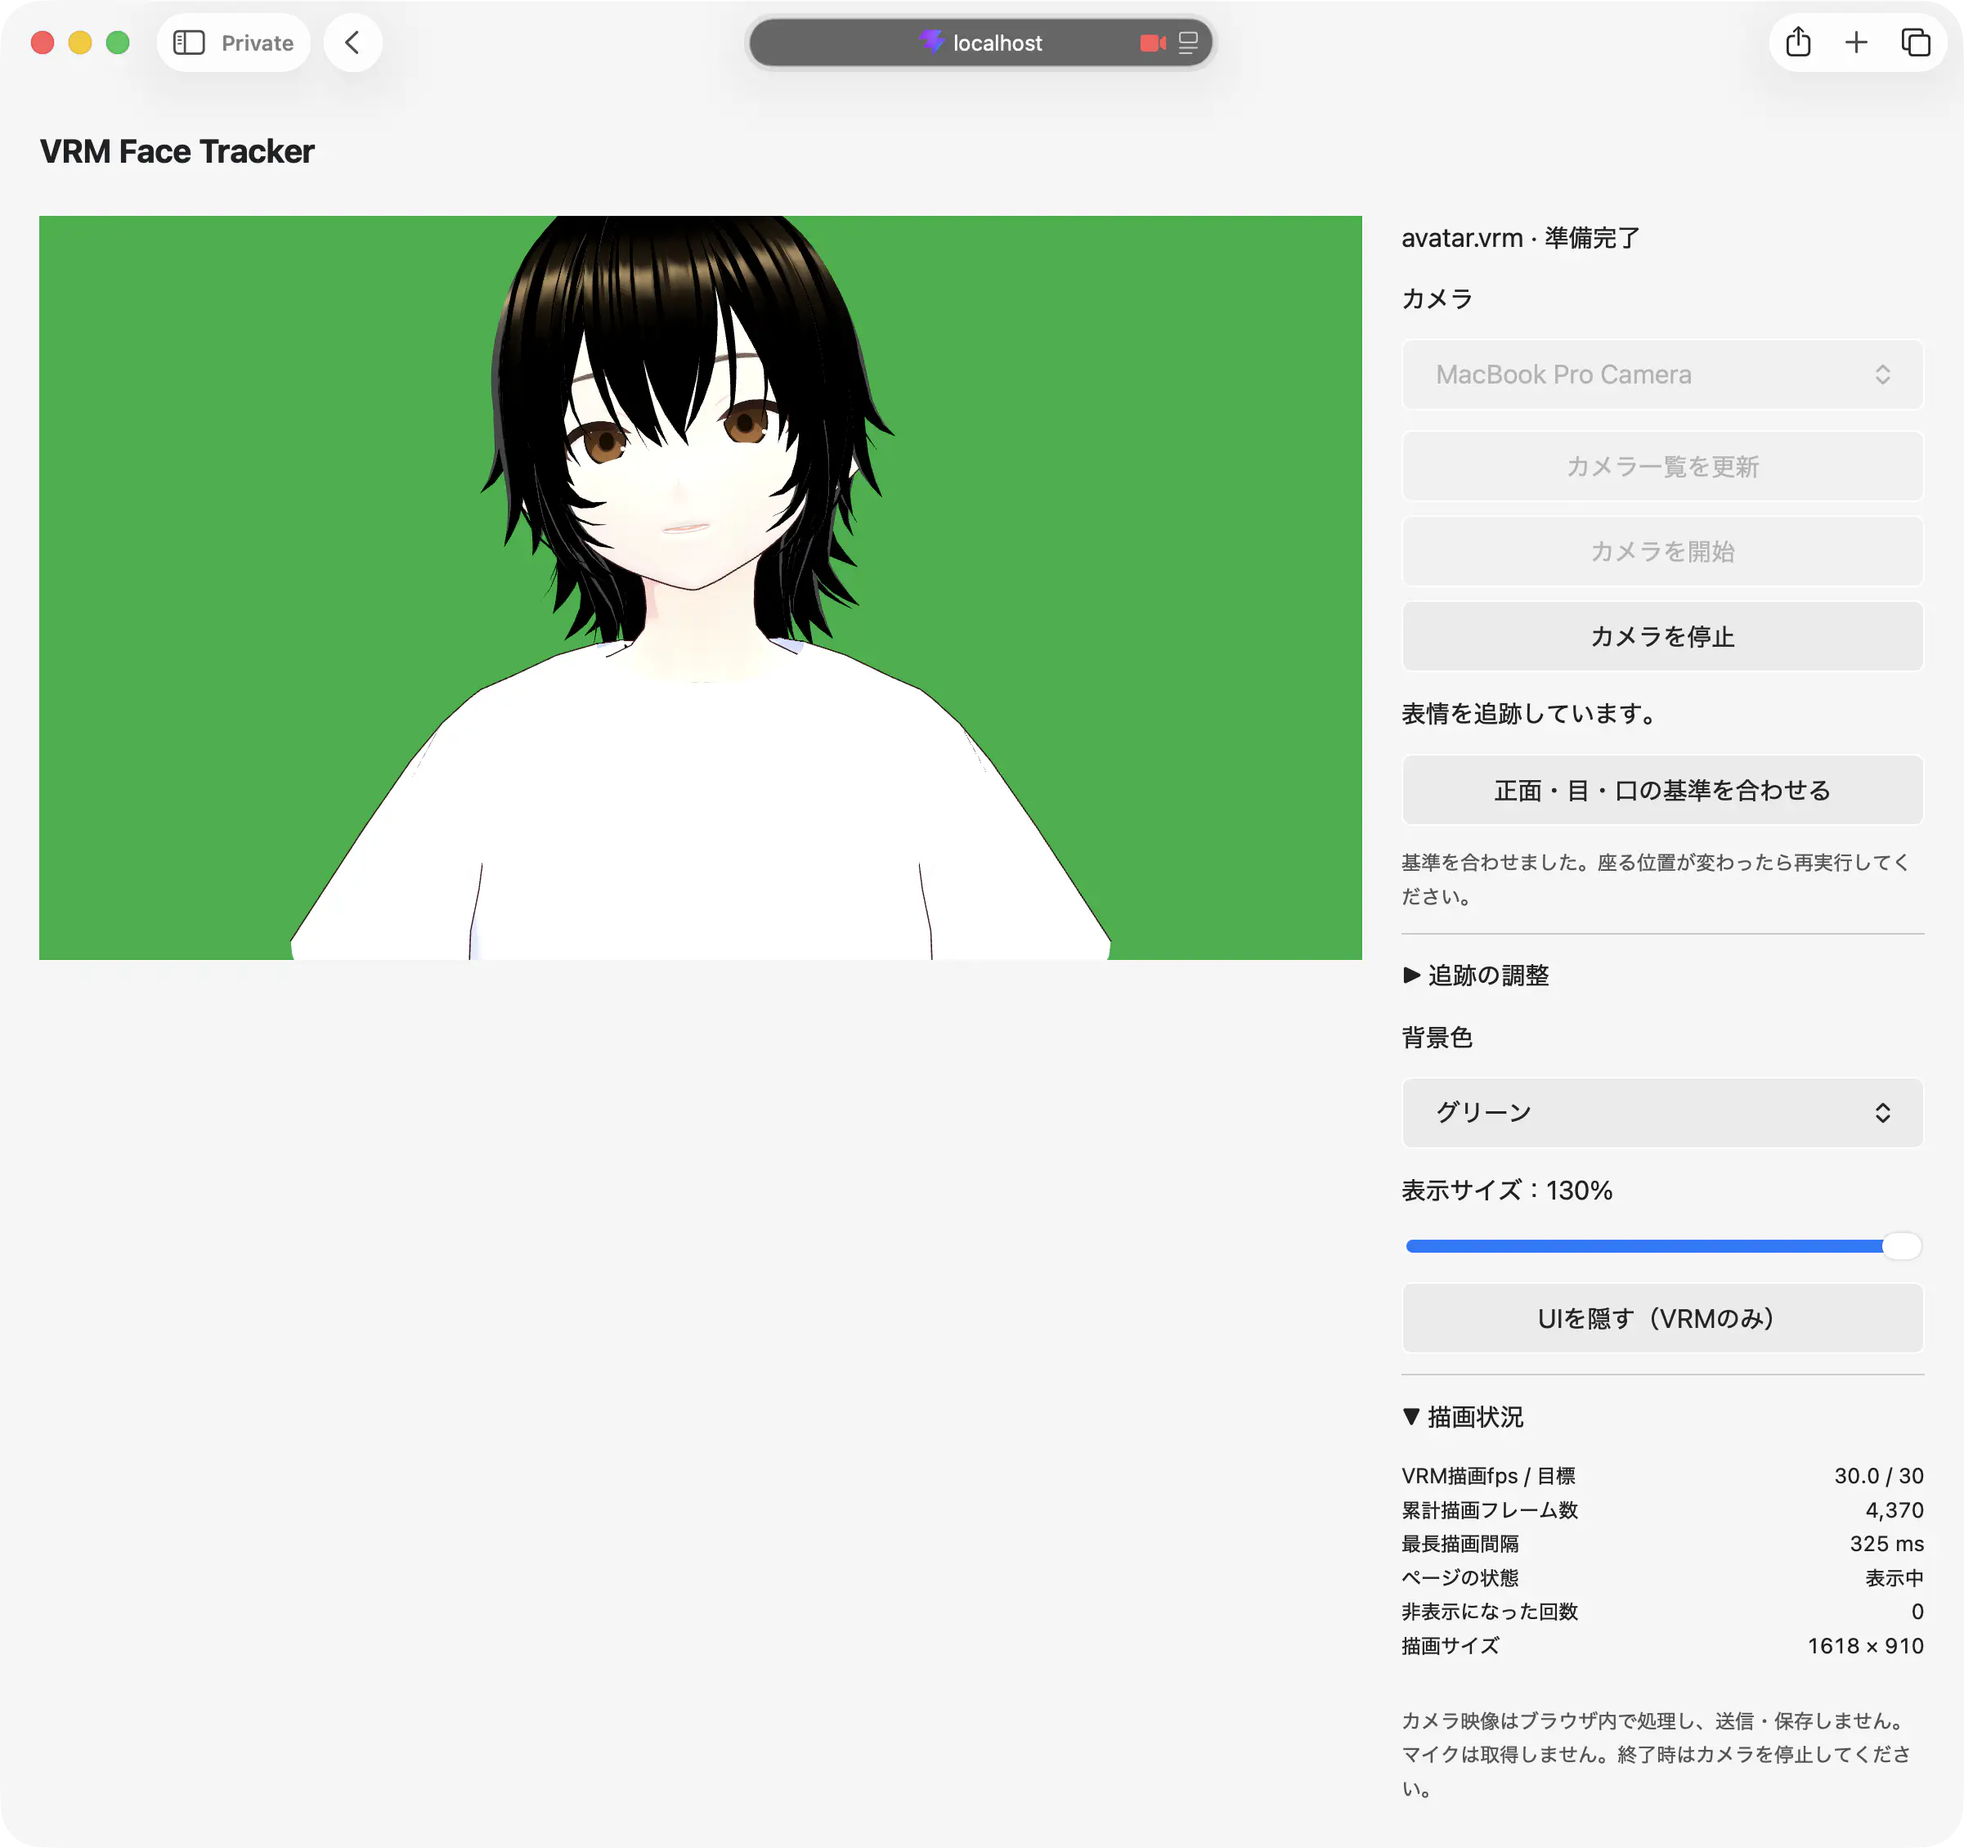
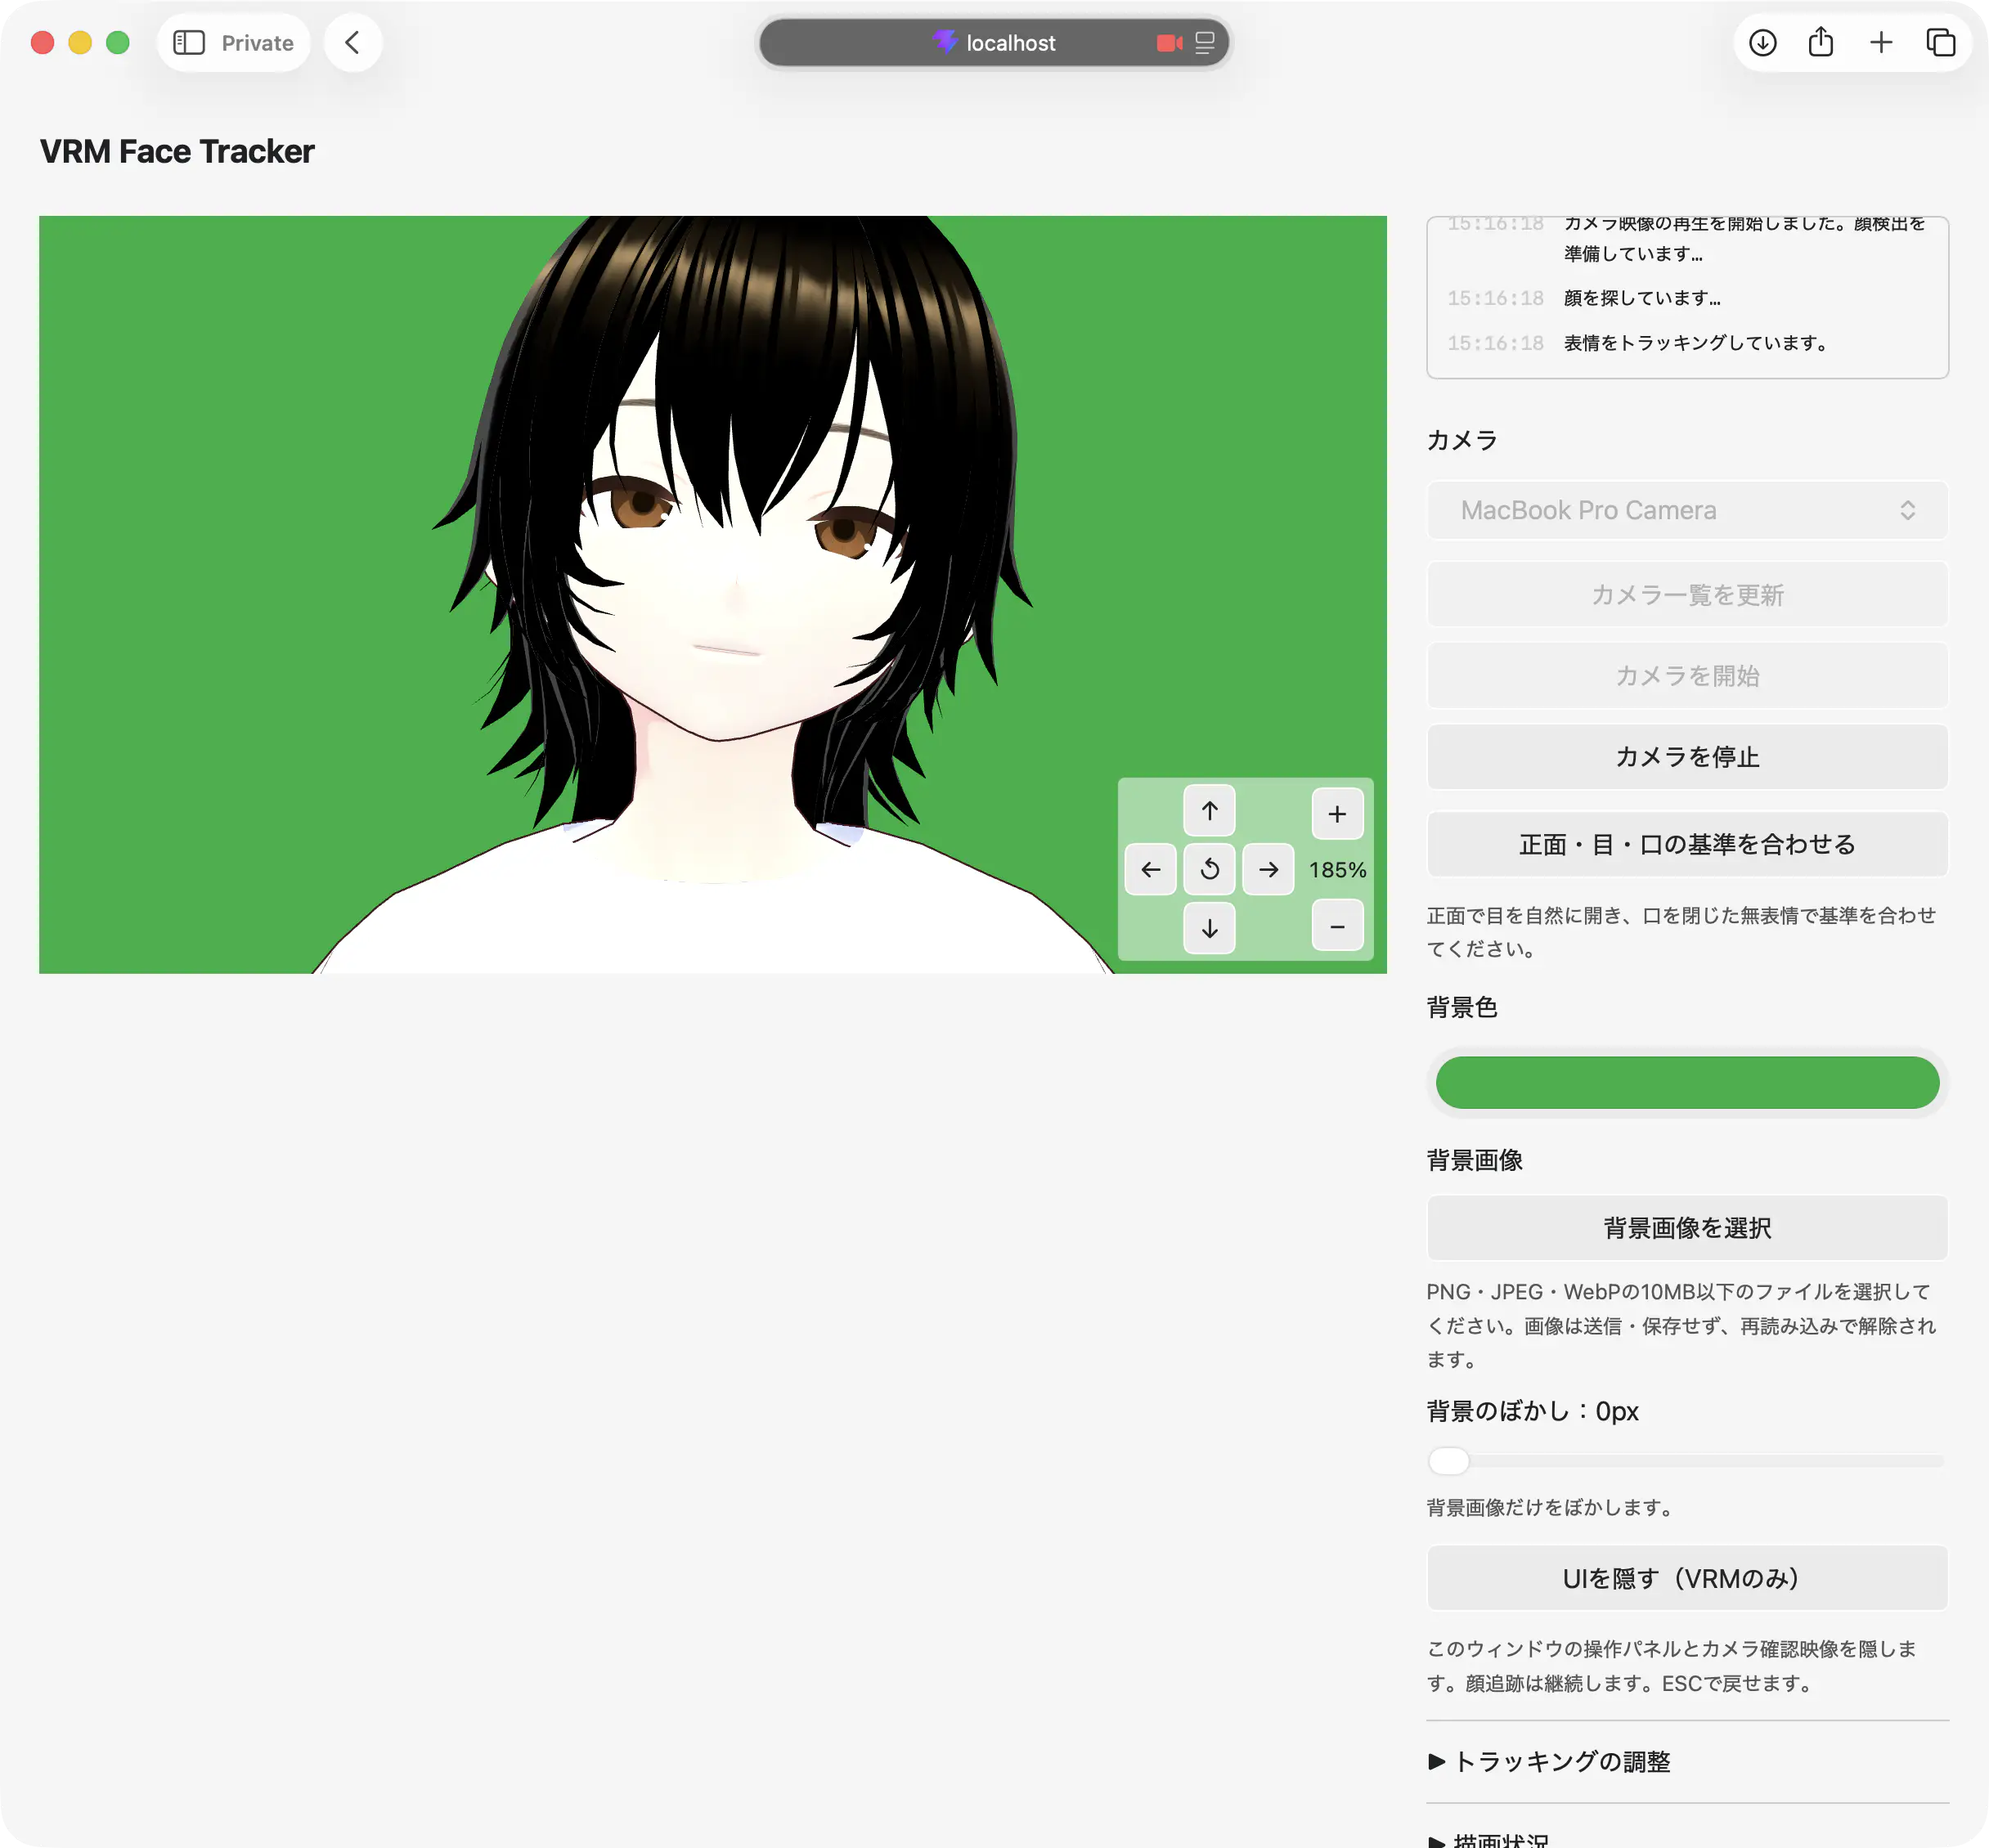
fix: improve UI consistency and correct messages in the app. (#11)

diff --git a/src/App.tsx b/src/App.tsx
@@ -5,7 +5,7 @@ import { defaultTrackingSettings } from "./face-rig";
 import type { TrackingSettings } from "./face-rig";
 import { drawCameraPreview } from "./camera-preview";
 
-const defaultBackground = "#00b140";
+const defaultBackground = "#00FF00";
 const logTimeFormat = new Intl.DateTimeFormat("ja-JP", {
   hour: "2-digit",
   minute: "2-digit",
@@ -60,7 +60,7 @@ export default function App() {
     const time = logTimeFormat.format(now);
     const dateTime = now.toISOString();
     return [
-      { id: 1, time, dateTime, source: "Avatar", message: "VRM読み込み中", error: false },
+      { id: 1, time, dateTime, source: "Avatar", message: "VRM読み込み中…", error: false },
       {
         id: 2,
         time,
@@ -197,7 +197,7 @@ export default function App() {
         viewer = createAvatarViewer(canvas, {
           onReady: () => {
             setReady(true);
-            appendStatusLog("Avatar", "VRM読み込み完了");
+            appendStatusLog("Avatar", "VRM読み込み完了。");
           },
           onError: (message) => {
             trackerRef.current?.stop();
@@ -253,7 +253,7 @@ export default function App() {
   }, [output]);
 
   useEffect(() => {
-    document.title = output || initial.dedicated ? "VRM アバター出力" : "VRM Face Tracker";
+    document.title = output || initial.dedicated ? "VRMアバター出力" : "VRM Face Tracker";
     // Move focus off the removed controls without displaying an overlay in OBS.
     if (output) stageRef.current?.focus({ preventScroll: true });
     else hideButtonRef.current?.focus({ preventScroll: true });
@@ -542,75 +542,16 @@ export default function App() {
             {tracking.calibration}
           </p>
 
-          {/*<details>
-            <summary>トラッキングの調整</summary>
-            <label className="checkbox-label">
-              <input
-                type="checkbox"
-                checked={trackingSettings.mirror}
-                onChange={(event) => updateTracking({ mirror: event.target.checked })}
-              />
-              鏡像で動かす（左右の向き・ウインク）
-            </label>
-            <label htmlFor="blink-gain">瞬きの強さ：{trackingSettings.blinkGain.toFixed(1)}</label>
-            <input
-              id="blink-gain"
-              type="range"
-              min="0.5"
-              max="2"
-              step="0.1"
-              value={trackingSettings.blinkGain}
-              onChange={(event) => updateTracking({ blinkGain: Number(event.target.value) })}
-            />
-            <label htmlFor="mouth-gain">
-              口の開きの強さ：{trackingSettings.mouthGain.toFixed(1)}
-            </label>
-            <input
-              id="mouth-gain"
-              type="range"
-              min="0.5"
-              max="2"
-              step="0.1"
-              value={trackingSettings.mouthGain}
-              onChange={(event) => updateTracking({ mouthGain: Number(event.target.value) })}
-            />
-            <label htmlFor="happy-gain">笑顔の強さ：{trackingSettings.happyGain.toFixed(1)}</label>
-            <input
-              id="happy-gain"
-              type="range"
-              min="0"
-              max="2"
-              step="0.1"
-              value={trackingSettings.happyGain}
-              onChange={(event) => updateTracking({ happyGain: Number(event.target.value) })}
-              aria-describedby="expression-hint"
-            />
-            <p id="expression-hint" className="hint">
-              笑顔は口角の上がりに反応します。強さを0にすると無効化できます。
-            </p>
-            <label htmlFor="tracking-fps">推定頻度の上限</label>
-            <select
-              id="tracking-fps"
-              value={trackingSettings.fps}
-              onChange={(event) => updateTracking({ fps: Number(event.target.value) })}
-            >
-              <option value="30">30 fps</option>
-              <option value="20">20 fps</option>
-              <option value="15">15 fps</option>
-            </select>
-            <p className="hint">
-              推定：{tracking.fps.toFixed(1)} fps / 処理：{Math.round(tracking.inferenceMs)}{" "}
-              ms。口形は開閉のみを近似します。
-            </p>
-          </details>*/}
-
           <label htmlFor="background">背景色</label>
-          <input
-            id="background"
-            type="color"
-            value={background}
-            onChange={(event) => setBackground(event.target.value)}
-          />
+          <div className="color">
+            <input
+              id="background"
+              type="color"
+              value={background}
+              onChange={(event) => setBackground(event.target.value)}
+            />
+            <output id="background">{background}</output>
+          </div>
 
           <div className="actions">
             <label htmlFor="background-image">背景画像</label>

diff --git a/src/face-tracker.ts b/src/face-tracker.ts
@@ -18,7 +18,7 @@ export type TrackingStatus = {
 };
 export const idleTrackingStatus: TrackingStatus = {
   phase: "idle",
-  message: "カメラは停止しています",
+  message: "カメラは停止しています。",
   face: false,
   fps: 0,
   inferenceMs: 0,
@@ -29,11 +29,11 @@ export const idleTrackingStatus: TrackingStatus = {
 function cameraError(error: unknown) {
   if (error instanceof DOMException) {
     if (error.name === "NotAllowedError")
-      return "カメラの使用が許可されていません。ブラウザとmacOSのカメラ権限を確認してください。";
+      return "カメラの使用が許可されていません、ブラウザとmacOSのカメラ権限を確認してください。";
     if (error.name === "NotFoundError" || error.name === "OverconstrainedError")
-      return "選択したカメラが見つかりません。カメラ一覧を更新して選び直してください。";
+      return "選択したカメラが見つかりません、カメラ一覧を更新して選び直してください。";
     if (error.name === "NotReadableError")
-      return "カメラを使用できません。他のアプリでの使用状況や接続を確認してください。";
+      return "カメラを使用できません、他のアプリでの使用状況や接続を確認してください。";
   }
   return error instanceof Error ? error.message : "カメラを開始できませんでした。";
 }
@@ -119,7 +119,7 @@ export function createFaceTracker(
       const timeout = window.setTimeout(
         () =>
           finish(
-            new Error("顔検出の準備がタイムアウトしました。推定用ファイルを確認してください。"),
+            new Error("顔検出の準備がタイムアウトしました、推定用ファイルを確認してください。"),
           ),
         30000,
       );
@@ -132,7 +132,7 @@ export function createFaceTracker(
       }
       abort.signal.addEventListener("abort", onAbort, { once: true });
       worker!.onerror = () =>
-        finish(new Error("顔検出のWorkerを起動できませんでした。再読み込みしてください。"));
+        finish(new Error("顔検出のWorkerを起動できませんでした、再読み込みしてください。"));
       worker!.onmessage = (event: MessageEvent<FaceWorkerResponse>) => {
         if (event.data.type === "ready") {
           connections = event.data.connections;
@@ -182,7 +182,7 @@ export function createFaceTracker(
         face,
         message: face
           ? "表情をトラッキングしています。"
-          : "顔が見つかりません。待機姿勢に戻ります。",
+          : "顔が見つからないため待機姿勢に戻ります。",
         fps: statsDue ? (resultCount * 1000) / (now - statsStart) : status.fps,
         inferenceMs: result.inferenceMs,
       });
@@ -298,7 +298,7 @@ export function createFaceTracker(
         if (stopped) return;
         worker.onmessage = receive;
         worker.onerror = () =>
-          fail("顔検出のWorkerが停止したためカメラを解放しました。再度開始してください。");
+          fail("顔検出のWorkerが停止したためカメラを解放しました、再度開始してください。");
         worker.onmessageerror = () => fail("顔検出の結果を受信できないため停止しました。");
         lastResult = statsStart = performance.now();
         publish({ phase: "running", message: "顔を探しています…" });
@@ -316,7 +316,7 @@ export function createFaceTracker(
           }
           if (age > 15000)
             fail(
-              "カメラ映像または顔検出の更新が止まったため停止しました。出力ウィンドウを表示して再開してください。",
+              "カメラ映像または顔検出の更新が止まったため停止しました、出力ウィンドウを表示して再開してください。",
             );
         }, 500);
         void capture();

diff --git a/src/globals.css b/src/globals.css
@@ -30,7 +30,9 @@ h1 { grid-column: 1 / -1; font-size: 20px; margin: 0; }
 .previews { min-inline-size: 0; }
 .camera-preview {
   margin-block-start: 16px;
-  display: grid;
+  &:not([hidden]) {
+    display: grid;
+  }
   > * {
     grid-area: 1/-1;
   }
@@ -38,8 +40,10 @@ h1 { grid-column: 1 / -1; font-size: 20px; margin: 0; }
 .camera-preview h2 { font-size: 16px; margin: 0 0 8px; }
 .camera-preview canvas { display: block; inline-size: 100%; block-size: auto; background: #111; }
 .camera-preview p {
-  margin: 1em;
+  /*margin: 1em;*/
   place-self: center;
+  text-align: center;
+  font-size: 12px;
   color: white;
 }
 .stage { position: relative; inline-size: 100%; aspect-ratio: 16 / 9; overflow: hidden; align-self: start; }
@@ -62,8 +66,18 @@ h1 { grid-column: 1 / -1; font-size: 20px; margin: 0; }
     cursor: pointer;
   }
 }
-
-.controls input[type="color"] { inline-size: 100%; block-size: 44px; padding: 4px; cursor: pointer; }
+.controls .color {
+  display: flex;
+  align-items: center;
+  gap: 1em;
+  justify-content: space-between;
+  output {
+    font-family: ui-monospace;
+  }
+}
+/*.controls input[type="color"] {
+  cursor: pointer;
+}*/
 .actions .hint { overflow-wrap: anywhere; }
 .view-controls {
   position: absolute; inset-inline-end: 8px; inset-block-end: 8px;
@@ -83,7 +97,7 @@ h1 { grid-column: 1 / -1; font-size: 20px; margin: 0; }
   position: absolute;
   inset-block-start: 50%; inset-inline-start: 50%; transform: translate(-50%, -50%);
   inline-size: min(90%, 420px); margin: 0; padding: 16px;
-  color: #202124; background: #fff; text-align: center;
+  color: white; text-align: center; font-size: 12px;
 }
 .stage-message p { margin: 0 0 12px; }
 

diff --git a/src/camera-preview.ts b/src/camera-preview.ts
@@ -40,13 +40,13 @@ export function drawCameraPreview(
       context.moveTo(from.x * width, from.y * height);
       context.lineTo(to.x * width, to.y * height);
     }
-    context.strokeStyle = "#111";
-    context.lineWidth = 3;
-    context.stroke();
-    context.strokeStyle = "#50ff80";
+    // context.strokeStyle = "#000000";
+    // context.lineWidth = 0;
+    // context.stroke();
+    context.strokeStyle = "#00FEFC";
     context.lineWidth = 1;
     context.stroke();
-    context.fillStyle = "#50ff80";
+    context.fillStyle = "#00FF00";
     context.beginPath();
     for (const point of landmarks) {
       if (!valid(point)) continue;
